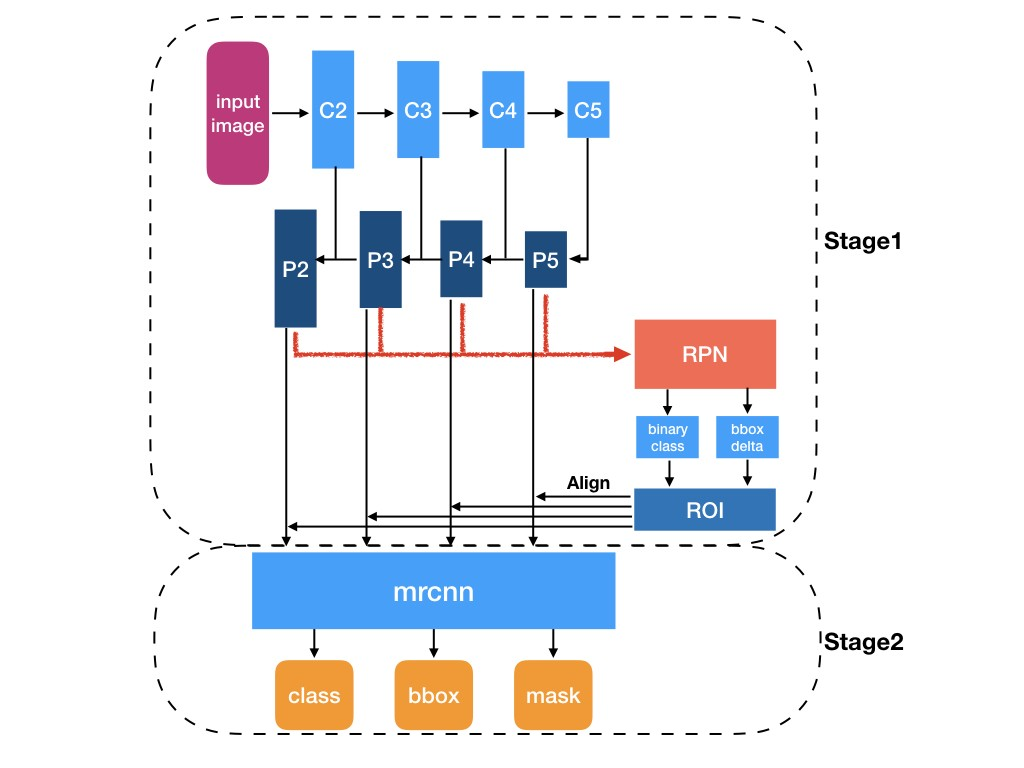
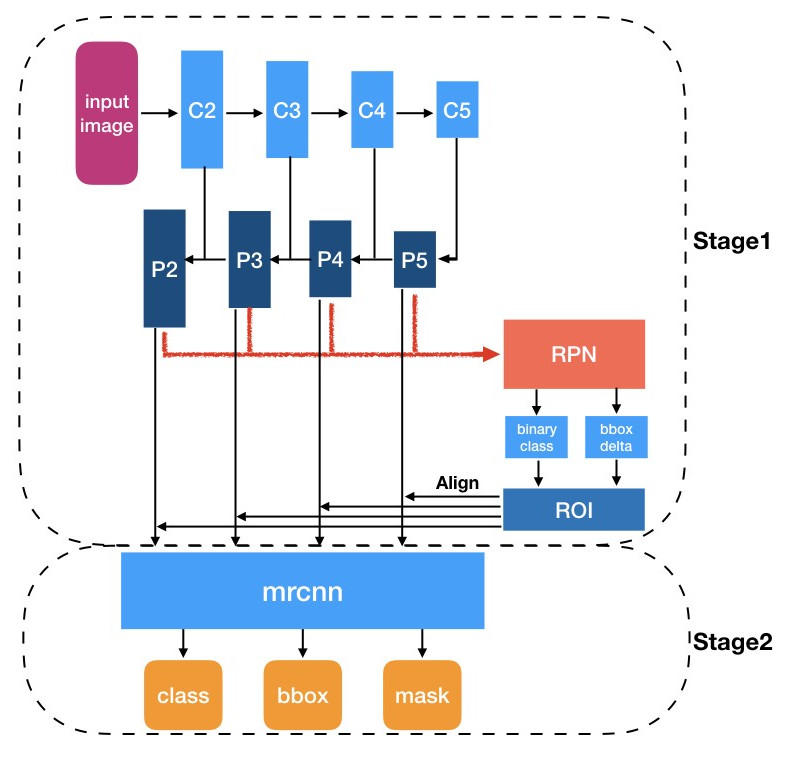
Widen mask-r_cnn description image

diff --git a/report/report_v2.tex b/report/report_v2.tex
@@ -189,7 +189,7 @@ connesse alla struttura backbone.
 \begin{figure}[H]
     \caption{Struttura di \mrcnn}
     \centering
-    \includegraphics[width=\textwidth,height=\textheight,keepaspectratio]{mask_description.jpg}
+    \includegraphics[width=.88\textwidth]{mask_description.jpg}
 \end{figure}
 
 \subsection{Training}
